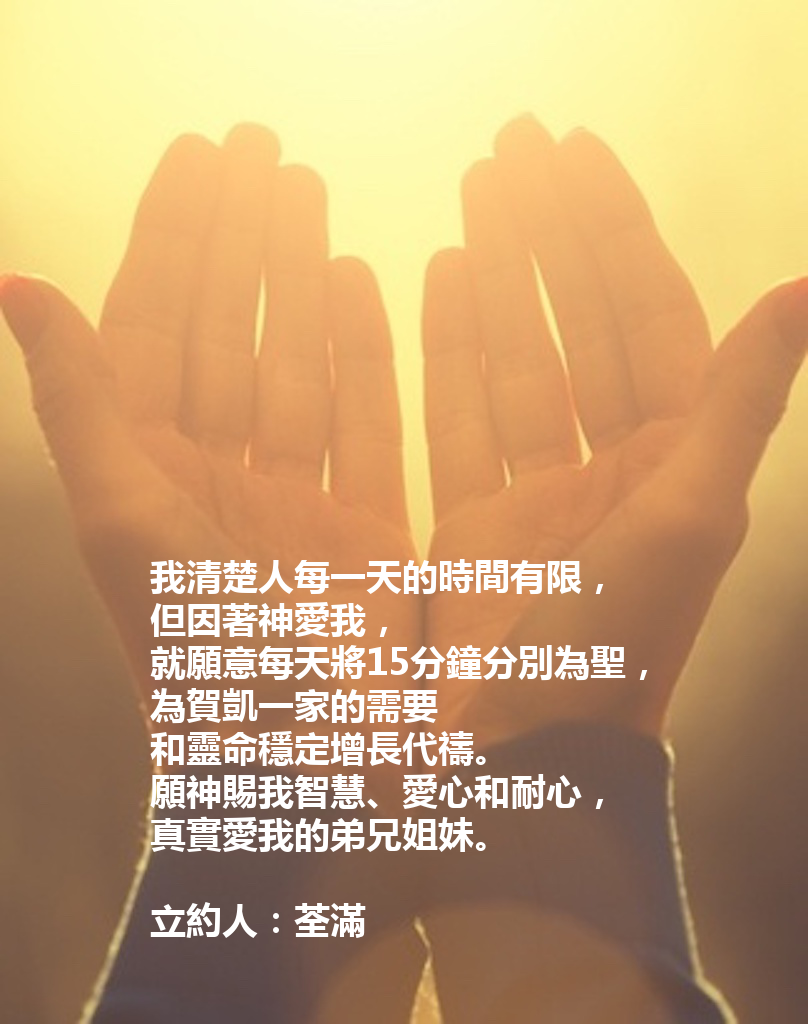
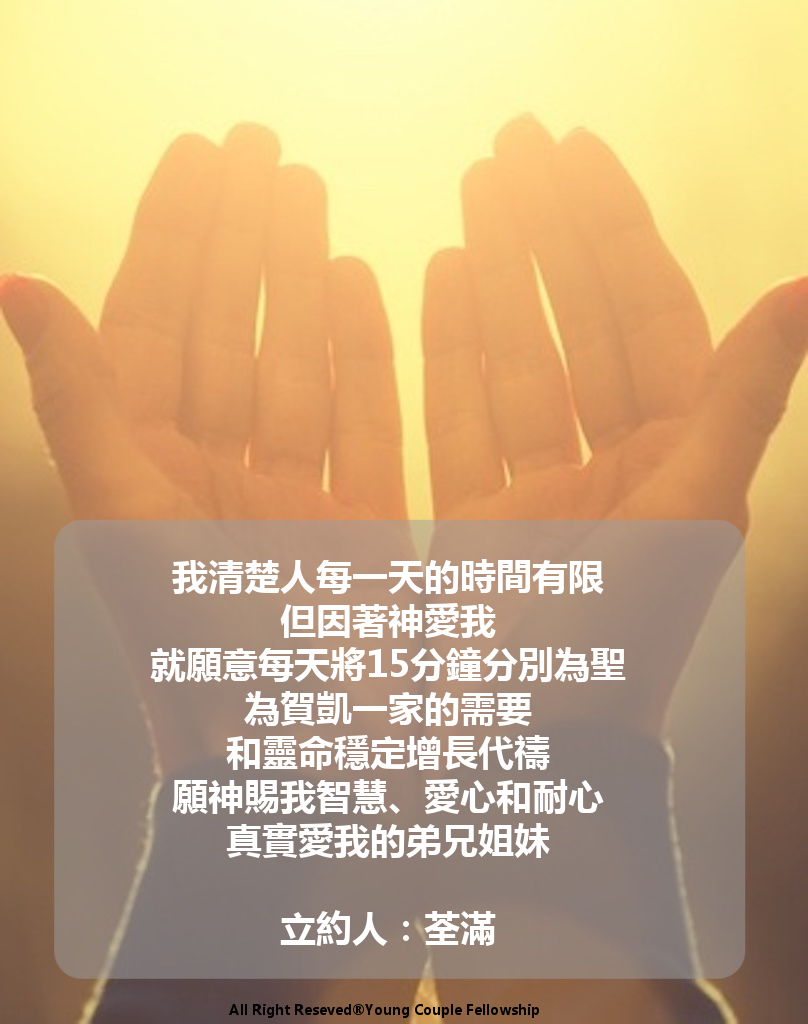
make it better

diff --git a/create_card.py b/create_card.py
@@ -41,24 +41,27 @@ def CreateCard(text):
 
   # starting position of the message
   (x, y) = (150, 550)
-  message = "我清楚人每一天的時間有限，\n但因著神愛我，\n就願意每天將%s分鐘分別為聖，\n為%s一家的需要\n和靈命穩定增長代禱。\n願神賜我智慧、愛心和耐心，\n真實愛我的弟兄姐妹。\n\n立約人：%s" % (minutes, family, person)
+#  message = "我清楚人每一天的時間有限，\n但因著神愛我，\n就願意每天將%s分鐘分別為聖，\n為%s一家的需要\n和靈命穩定增長代禱。\n願神賜我智慧、愛心和耐心，\n真實愛我的弟兄姐妹。\n\n立約人：%s" % (minutes, family, person)
+  message = "我清楚人每一天的時間有限\n但因著神愛我\n就願意每天將%s分鐘分別為聖\n為%s一家的需要\n和靈命穩定增長代禱\n願神賜我智慧、愛心和耐心\n真實愛我的弟兄姐妹\n\n立約人：%s" % (minutes, family, person)
   color = 'rgb(255, 255, 255)' # black color
   # draw the message on the background
  # draw.text((x, y), message, fill=color, font=font)
 
   font = ImageFont.truetype('微软雅黑粗体.ttf',36)
-  draw.text( (x,y), message,fill=color,font=font)
+#  draw.text( (x,y), message,fill=color,font=font)
+  draw.multiline_text( (x,y), message,fill=color,font=font, spacing=5, align='center')
 
   # another characters
-# (x, y) = (150, 150)
-# name = 'Vinay'
-# color = 'rgb(255, 255, 255)' # white color
-# draw.text((x, y), name, fill=color, font=font)
+  (x, y) = (225, 1000)
+  name = ' All Right Reseved®Young Couple Fellowship'
+  color = 'rgb(0, 0, 0)' # white color
+  font = ImageFont.truetype('微软雅黑粗体.ttf',14)
+  draw.multiline_text( (x,y), name,fill=color,font=font, spacing=5, align='center')
 
   # save the edited image
   image.save('greeting_card.png')
-  photo_link = upload_photo('greeting_card.png')
-  return photo_link
+#  photo_link = upload_photo('greeting_card.png')
+#  return photo_link
 
 if __name__ == '__main__':
   print(CreateCard('立約小卡,15,賀凱,荃滿'))
